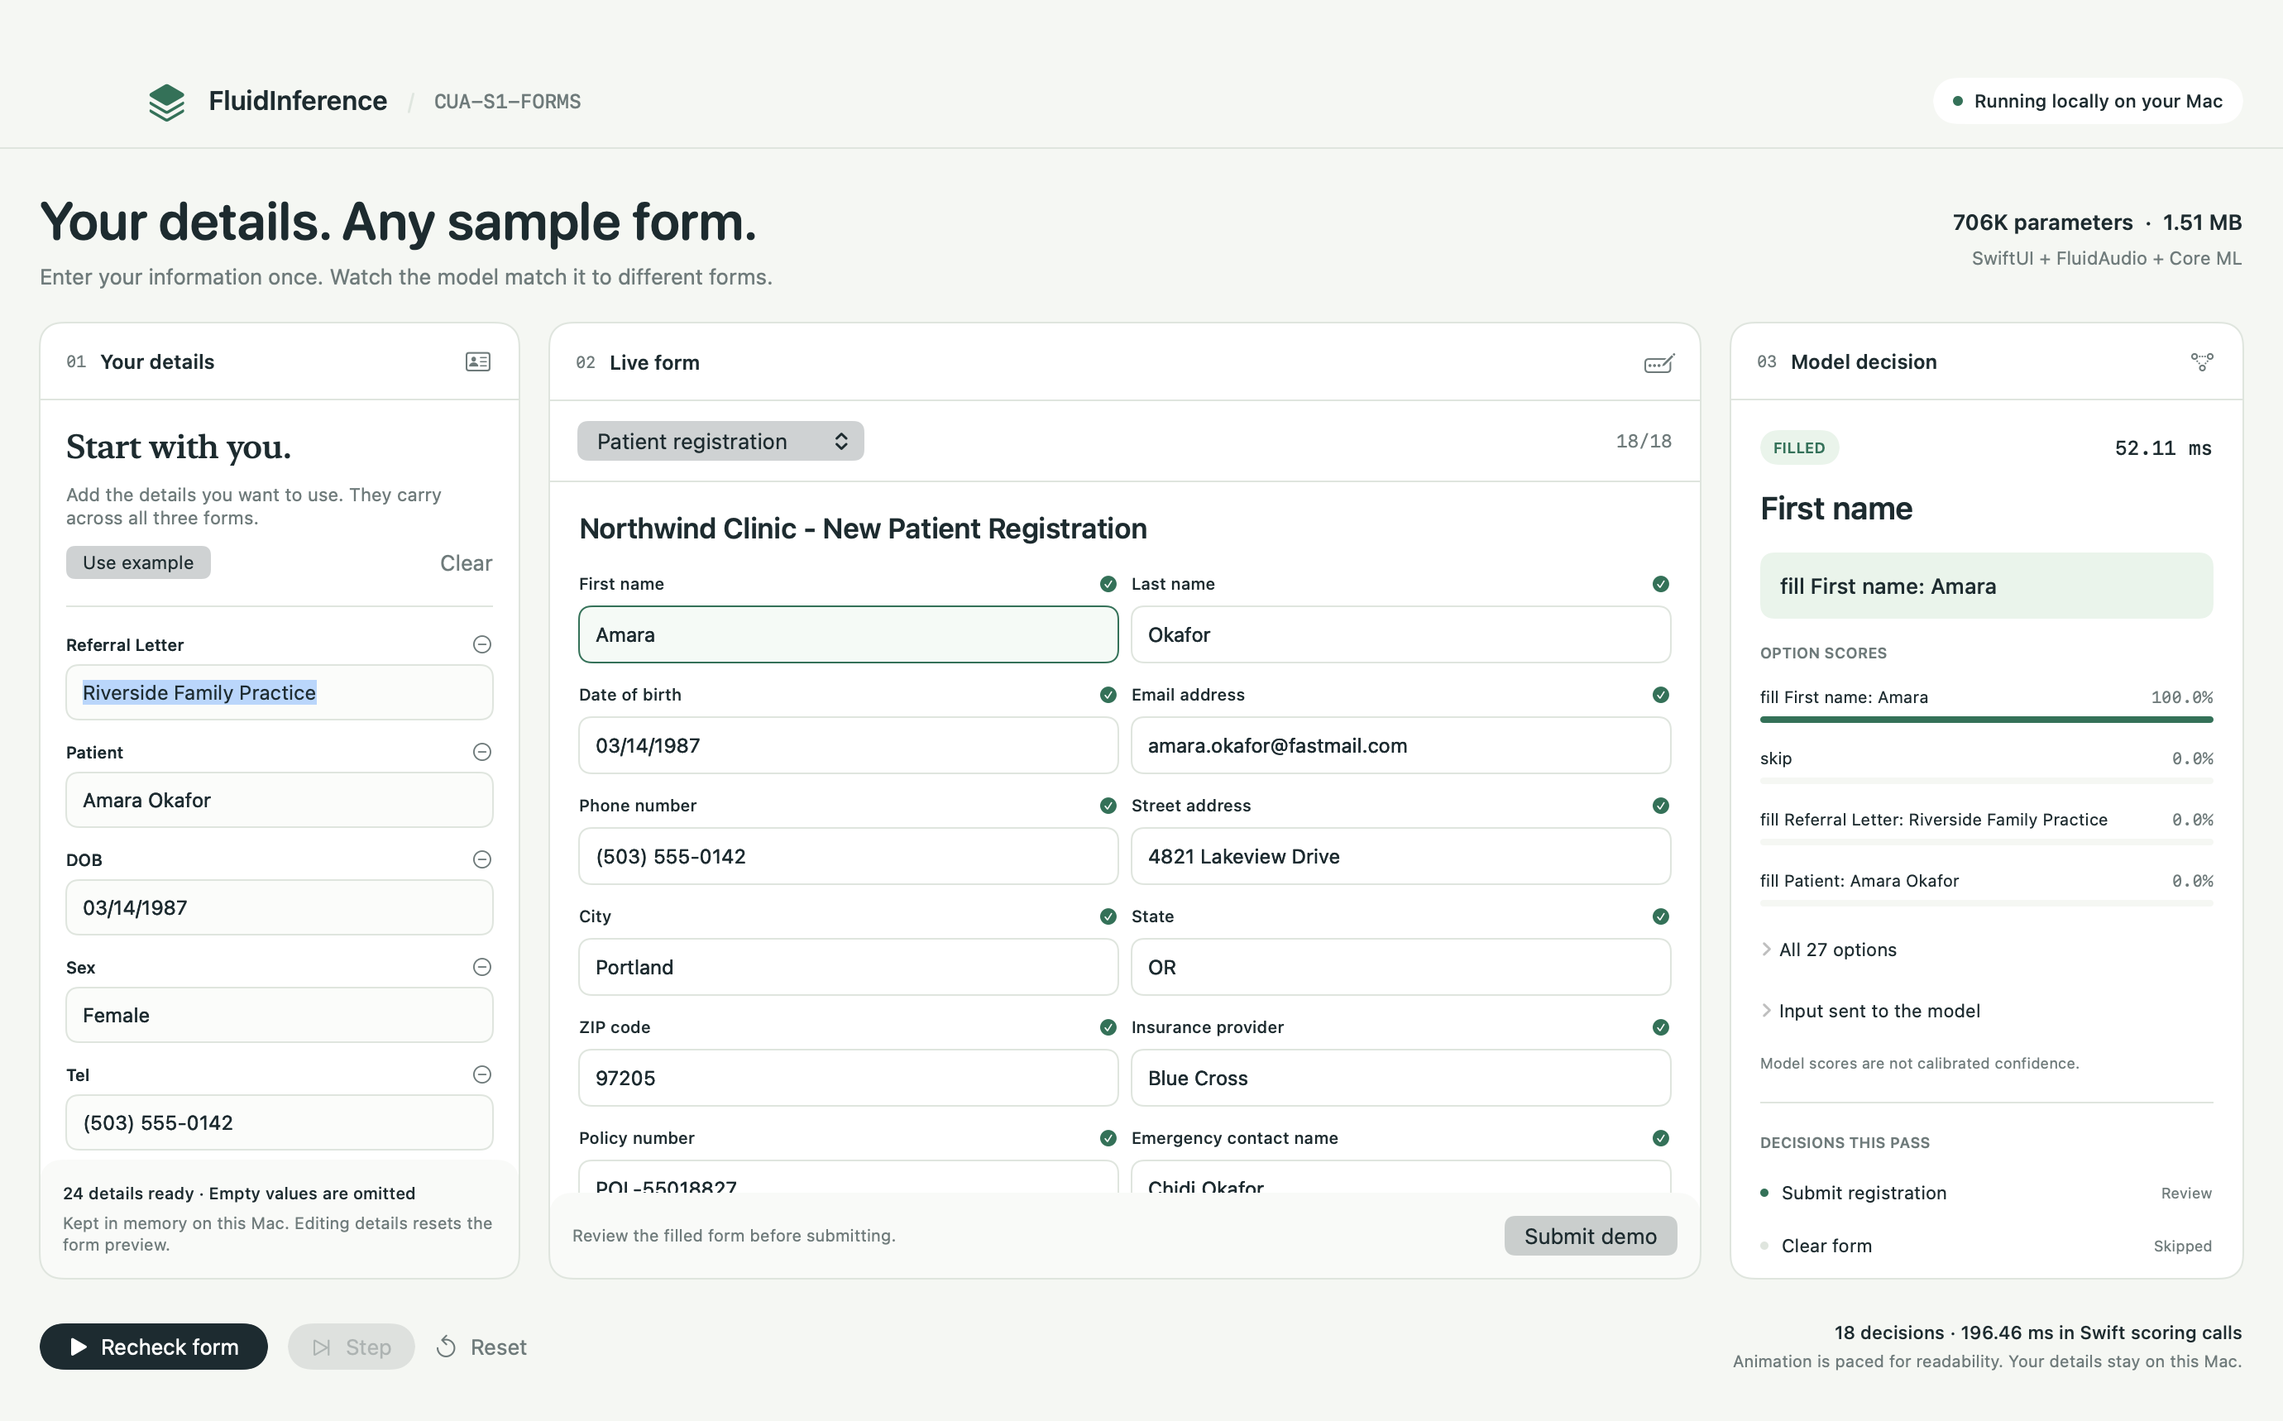
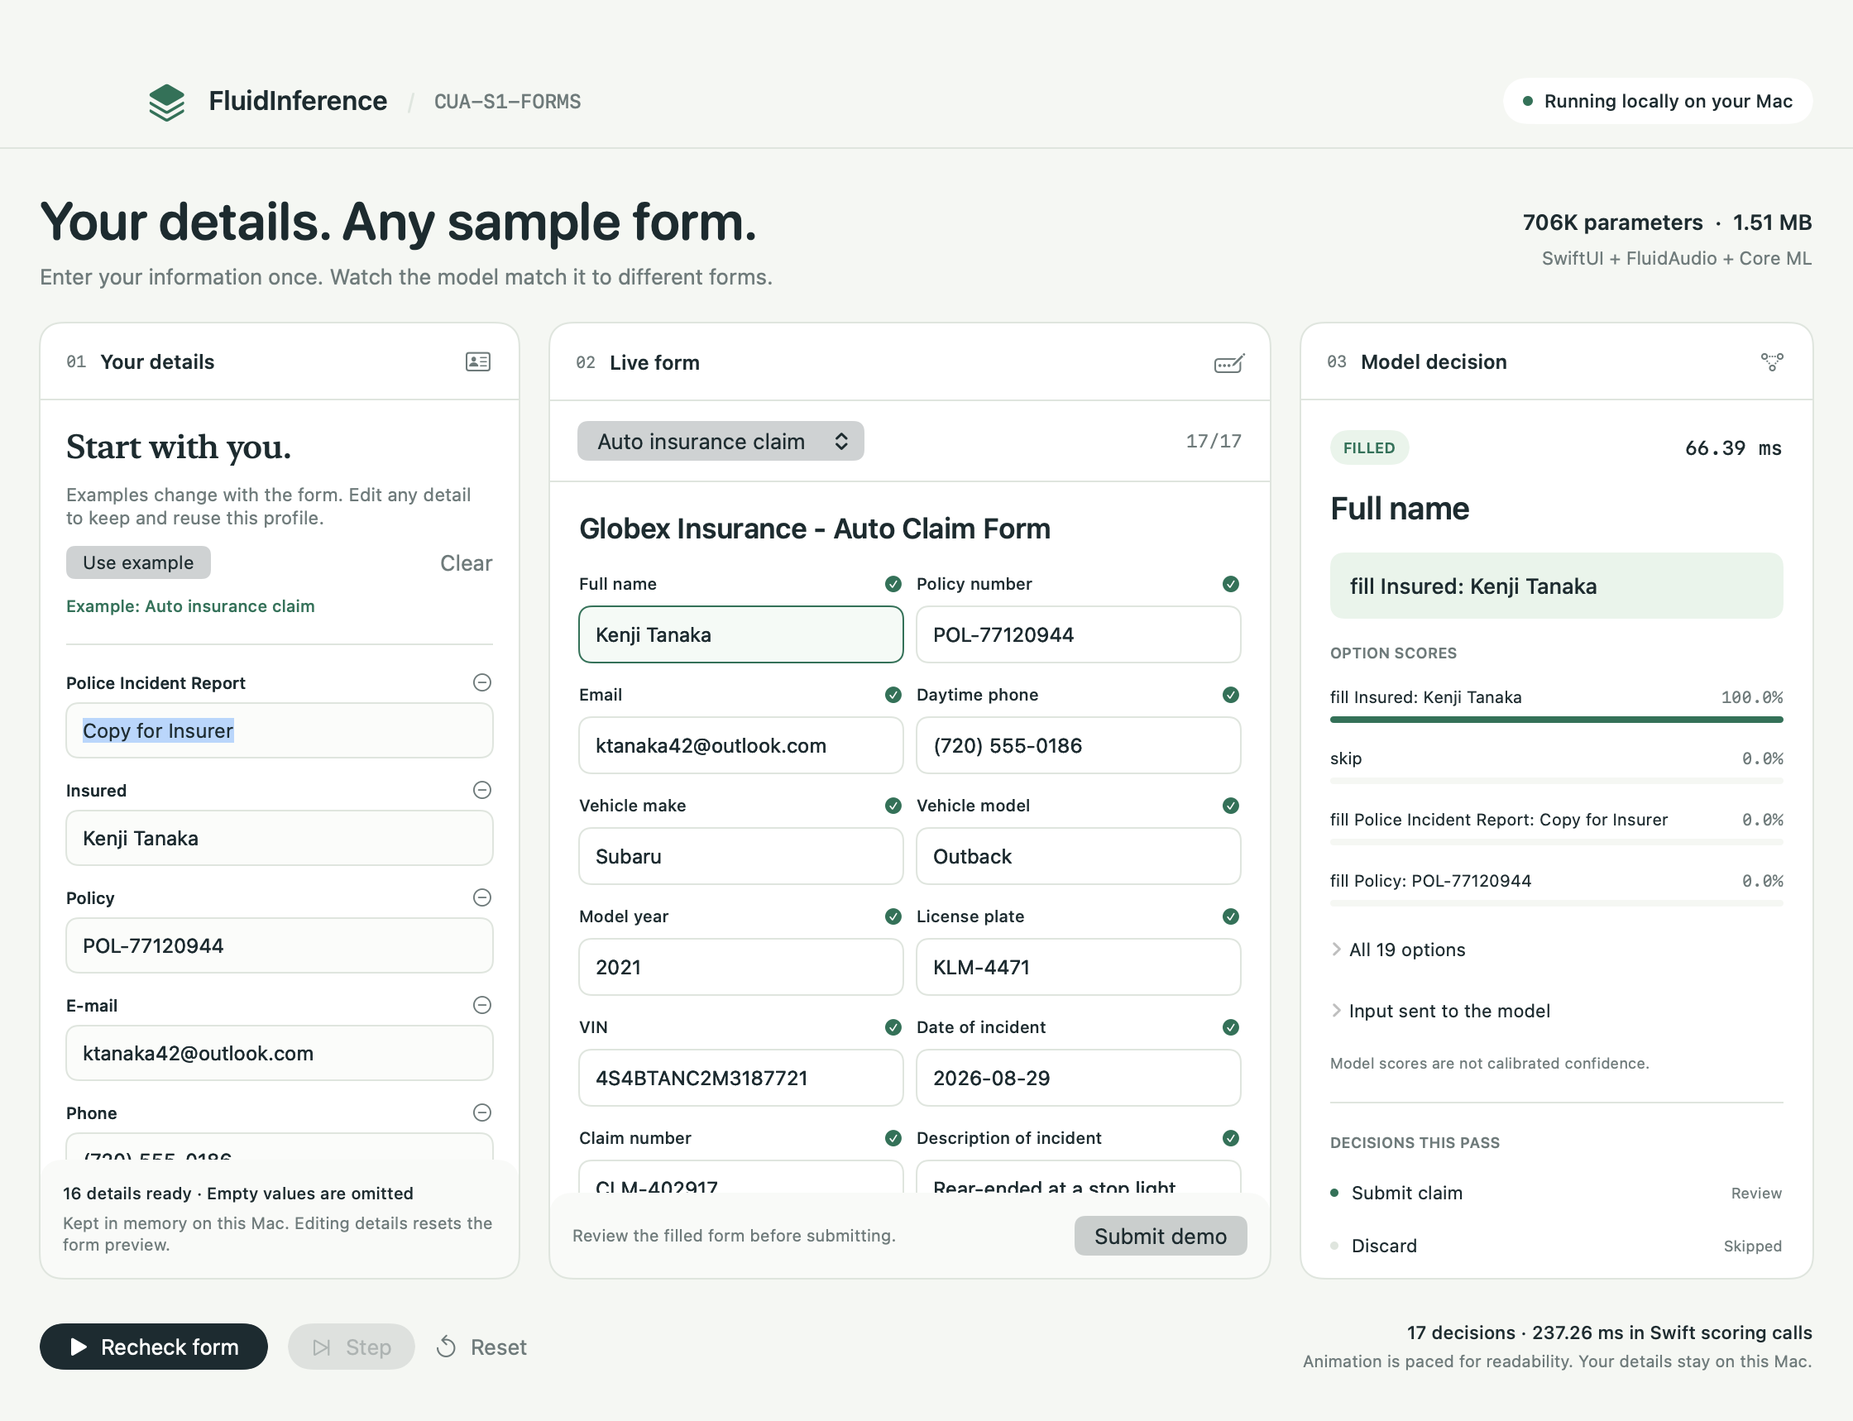
Match untouched example details to the selected Swift demo form

diff --git a/Examples/CuaS1FormsDemo/Tests/CuaDemoCoreTests/ExampleSelectionTests.swift b/Examples/CuaS1FormsDemo/Tests/CuaDemoCoreTests/ExampleSelectionTests.swift
@@ -1,0 +1,100 @@
+import Foundation
+import XCTest
+
+@testable import CuaDemoCore
+
+final class ExampleSelectionTests: XCTestCase {
+    @MainActor
+    func testUntouchedExamplesFollowAllFormsAndResetThePreview() async throws {
+        let session = DemoSession(scenarios: try DemoCatalog.load())
+        session.useExampleDetails()
+        for index in [1, 2, 0] {
+            let control = try XCTUnwrap(session.controls.first)
+            session.setValue("A field under review", for: control.id)
+            session.selectScenario(index)
+            XCTAssertTrue(session.isUsingExampleDetails)
+            XCTAssertEqual(try ProfileChoices.make(from: session.details), session.scenarios[index].options)
+            XCTAssertEqual(session.controls.map(\.id), session.scenarios[index].controls.map(\.id))
+            XCTAssertTrue(session.controls.allSatisfy { $0.value.isEmpty && !$0.isChecked })
+            XCTAssertEqual(session.nextIndex, 0)
+            XCTAssertTrue(session.decisions.isEmpty)
+        }
+    }
+
+    @MainActor
+    func testUnchangedEditorUpdatesKeepExamplesFollowingForms() async throws {
+        let session = DemoSession(scenarios: try DemoCatalog.load())
+        session.useExampleDetails()
+        let detail = try XCTUnwrap(session.details.first)
+        let control = try XCTUnwrap(session.controls.first)
+        session.setValue("A field under review", for: control.id)
+        session.updateDetail(detail.id, name: detail.name, value: detail.value)
+        session.removeDetail(UUID())
+        session.selectScenario(session.scenarioIndex)
+        XCTAssertEqual(session.controls.first?.value, "A field under review")
+        XCTAssertEqual(session.details.first?.id, detail.id)
+        XCTAssertTrue(session.isUsingExampleDetails)
+        session.selectScenario(2)
+        XCTAssertEqual(try ProfileChoices.make(from: session.details), session.scenarios[2].options)
+    }
+
+    @MainActor
+    func testEditingAnExamplePreservesTheEditedProfileAcrossForms() async throws {
+        let session = DemoSession(scenarios: try DemoCatalog.load())
+        session.useExampleDetails()
+        let firstName = try XCTUnwrap(session.details.first { $0.name == "First name" })
+        session.updateDetail(firstName.id, value: "Kenji")
+        XCTAssertFalse(session.isUsingExampleDetails)
+        let choices = try ProfileChoices.make(from: session.details)
+        let ids = session.details.map(\.id)
+        for index in [1, 2, 0] {
+            session.selectScenario(index)
+            XCTAssertEqual(try ProfileChoices.make(from: session.details), choices)
+            XCTAssertEqual(session.details.map(\.id), ids)
+        }
+        session.useExampleDetails()
+        session.selectScenario(1)
+        XCTAssertTrue(session.isUsingExampleDetails)
+        XCTAssertEqual(try ProfileChoices.make(from: session.details), session.scenarios[1].options)
+    }
+
+    @MainActor
+    func testRenamingAddingOrRemovingDetailsLeavesExampleMode() async throws {
+        let session = DemoSession(scenarios: try DemoCatalog.load())
+        for edit in 0..<3 {
+            session.useExampleDetails()
+            let detail = try XCTUnwrap(session.details.first)
+            switch edit {
+            case 0: session.updateDetail(detail.id, name: "Document title")
+            case 1: session.addDetail()
+            default: session.removeDetail(detail.id)
+            }
+            XCTAssertFalse(session.isUsingExampleDetails)
+            let ids = session.details.map(\.id)
+            let choices = try ProfileChoices.make(from: session.details)
+            session.selectScenario((session.scenarioIndex + 1) % session.scenarios.count)
+            XCTAssertEqual(session.details.map(\.id), ids)
+            XCTAssertEqual(try ProfileChoices.make(from: session.details), choices)
+        }
+    }
+
+    @MainActor
+    func testClearKeepsFormsBlankUntilAnExampleIsExplicitlyLoaded() async throws {
+        let session = DemoSession(scenarios: try DemoCatalog.load())
+        XCTAssertFalse(session.isUsingExampleDetails)
+        session.useExampleDetails()
+        session.clearDetails()
+        for index in [1, 2, 0] {
+            session.selectScenario(index)
+            XCTAssertFalse(session.isUsingExampleDetails)
+            XCTAssertTrue(session.details.allSatisfy { $0.value.isEmpty })
+        }
+        session.selectScenario(2)
+        session.useExampleDetails()
+        XCTAssertEqual(try ProfileChoices.make(from: session.details), session.scenarios[2].options)
+        session.reset()
+        XCTAssertTrue(session.isUsingExampleDetails)
+        session.selectScenario(1)
+        XCTAssertEqual(try ProfileChoices.make(from: session.details), session.scenarios[1].options)
+    }
+}

diff --git a/Examples/CuaS1FormsDemo/Sources/CuaDemoCore/DemoVerification.swift b/Examples/CuaS1FormsDemo/Sources/CuaDemoCore/DemoVerification.swift
@@ -14,9 +14,13 @@ public enum DemoVerification {
         await session.load(modelURL: modelURL)
         guard session.isReady else { throw DemoError(session.errorMessage ?? "Model failed to load.") }
         var checked = 0
+        let expectedFilledFields = [14, 10, 12]
+        session.useExampleDetails()
         for scenarioIndex in session.scenarios.indices {
             session.selectScenario(scenarioIndex)
-            session.useExampleDetails()
+            guard session.isUsingExampleDetails,
+                try ProfileChoices.make(from: session.details) == session.scenarios[scenarioIndex].options
+            else { throw DemoError("The public example did not follow the selected form.") }
             while !session.isComplete { try await session.scoreNext() }
             for decision in session.decisions {
                 guard decision.result.selectedIndex == labels[decision.id] else {
@@ -24,10 +28,16 @@ public enum DemoVerification {
                 }
                 checked += 1
             }
+            let filledFields = session.controls.filter { $0.role == "Edit" && !$0.value.isEmpty }.count
+            guard filledFields == expectedFilledFields[scenarioIndex] else {
+                throw DemoError("The example did not fill the expected fields for form \(scenarioIndex).")
+            }
             guard !session.isSubmitted else { throw DemoError("Scoring must never submit a form.") }
             session.submitLocally()
             guard session.isSubmitted else { throw DemoError("The explicit local submit action failed.") }
-            print("PASS \(session.scenario?.shortTitle ?? "form"): \(session.decisions.count) real decisions")
+            print(
+                "PASS \(session.scenario?.shortTitle ?? "form"): "
+                    + "\(session.decisions.count) real decisions, \(filledFields) text fields filled")
         }
         guard checked == 50 else { throw DemoError("The selected 50-control manifest changed.") }
         session.selectScenario(0)
@@ -54,10 +64,41 @@ public enum DemoVerification {
             session.controls.allSatisfy({ $0.value.isEmpty && !$0.isChecked })
         else { throw DemoError("Reset did not cancel pending scoring safely.") }
         print("PASS single-step and cancellation/reset behavior")
+        try verifyExampleEditing(session)
         try await verifyEnteredProfile(session)
         print(
             "Verified 50 original form decisions, filled-state recheck, and playback controls with the real Swift manager."
         )
+    }
+
+    @MainActor
+    private static func verifyExampleEditing(_ session: DemoSession) throws {
+        session.useExampleDetails()
+        guard let detail = session.details.first else { throw DemoError("Missing example details.") }
+        session.updateDetail(detail.id, name: detail.name, value: detail.value)
+        session.selectScenario(1)
+        guard session.isUsingExampleDetails,
+            try ProfileChoices.make(from: session.details) == session.scenarios[1].options
+        else { throw DemoError("An unchanged editor update stopped example switching.") }
+        guard let firstName = session.details.first(where: { $0.name == "First name" }) else {
+            throw DemoError("Missing example first name.")
+        }
+        session.updateDetail(firstName.id, value: "Kenji")
+        let editedChoices = try ProfileChoices.make(from: session.details)
+        session.selectScenario(2)
+        guard !session.isUsingExampleDetails,
+            try ProfileChoices.make(from: session.details) == editedChoices
+        else { throw DemoError("Switching forms overwrote an edited example.") }
+        session.useExampleDetails()
+        guard session.isUsingExampleDetails,
+            try ProfileChoices.make(from: session.details) == session.scenarios[2].options
+        else { throw DemoError("Use example did not restore the selected form's details.") }
+        session.clearDetails()
+        session.selectScenario(0)
+        guard !session.isUsingExampleDetails, session.details.allSatisfy({ $0.value.isEmpty }) else {
+            throw DemoError("Switching forms restored sample data after clearing the profile.")
+        }
+        print("PASS examples follow forms, edited profiles persist, and clear exits example mode")
     }
 
     @MainActor

diff --git a/Examples/CuaS1FormsDemo/Sources/CuaDemoCore/DemoSession.swift b/Examples/CuaS1FormsDemo/Sources/CuaDemoCore/DemoSession.swift
@@ -62,6 +62,8 @@ public final class DemoSession {
     public private(set) var controls: [DemoControl] = []
     /// User-entered source data, retained in memory when switching target forms.
     public private(set) var details = ProfileChoices.emptyDetails()
+    /// Whether untouched sample details should follow the selected form.
+    public private(set) var isUsingExampleDetails = false
     /// Predictions made during this pass, in form order.
     public private(set) var decisions: [DemoDecision] = []
     /// Control displayed in the decision inspector.
@@ -85,6 +87,11 @@ public final class DemoSession {
 
     /// Create an unloaded session.
     public init() {}
+
+    init(scenarios: [DemoScenario]) {
+        self.scenarios = scenarios
+        controls = scenarios.first?.controls ?? []
+    }
 
     /// The currently selected scenario.
     public var scenario: DemoScenario? {
@@ -123,6 +130,7 @@ public final class DemoSession {
         else { return }
         if let name { details[index].name = name }
         if let value { details[index].value = value }
+        isUsingExampleDetails = false
         reset()
     }
 
@@ -130,13 +138,15 @@ public final class DemoSession {
     public func addDetail() {
         guard !isRunning else { return }
         details.append(ProfileDetail(name: ""))
+        isUsingExampleDetails = false
         reset()
     }
 
     /// Remove a source value from subsequent model choices.
     public func removeDetail(_ id: UUID) {
-        guard !isRunning else { return }
+        guard !isRunning, details.contains(where: { $0.id == id }) else { return }
         details.removeAll { $0.id == id }
+        isUsingExampleDetails = false
         reset()
     }
 
@@ -144,14 +154,20 @@ public final class DemoSession {
     public func clearDetails() {
         guard !isRunning else { return }
         details = ProfileChoices.emptyDetails()
+        isUsingExampleDetails = false
         reset()
     }
 
-    /// Load the selected form's original public example into the editable source panel.
+    /// Load public sample details and follow the selected form until the user edits them.
     public func useExampleDetails() {
         guard !isRunning, let scenario else { return }
-        details = scenario.entities.map { ProfileDetail(name: $0.name, value: $0.value) }
+        copyExampleDetails(from: scenario)
         reset()
+    }
+
+    private func copyExampleDetails(from scenario: DemoScenario) {
+        details = scenario.entities.map { ProfileDetail(name: $0.name, value: $0.value) }
+        isUsingExampleDetails = true
     }
 
     /// Load the bundled source fixture and real Core ML package.
@@ -172,10 +188,11 @@ public final class DemoSession {
         }
     }
 
-    /// Switch forms and clear the previous pass.
+    /// Switch forms, refresh untouched examples, and preserve user-entered or edited details.
     public func selectScenario(_ index: Int) {
-        guard scenarios.indices.contains(index) else { return }
+        guard scenarios.indices.contains(index), index != scenarioIndex else { return }
         scenarioIndex = index
+        if isUsingExampleDetails { copyExampleDetails(from: scenarios[index]) }
         reset()
     }
 

diff --git a/Examples/CuaS1FormsDemo/Sources/CuaS1FormsDemo/ProfileEditorView.swift b/Examples/CuaS1FormsDemo/Sources/CuaS1FormsDemo/ProfileEditorView.swift
@@ -17,15 +17,30 @@ struct ProfileEditorView: View {
             .overlay(alignment: .bottom) { Rectangle().fill(Palette.line).frame(height: 1) }
             VStack(alignment: .leading, spacing: 10) {
                 Text("Start with you.").font(.system(size: 20, weight: .medium, design: .serif))
-                Text("Add the details you want to use. They carry across all three forms.")
-                    .font(.system(size: 11)).foregroundStyle(Palette.muted)
-                    .fixedSize(horizontal: false, vertical: true)
+                Text(
+                    session.isUsingExampleDetails
+                        ? "Examples change with the form. Edit any detail to keep and reuse this profile."
+                        : "Add the details you want to use. They carry across all three forms."
+                )
+                .font(.system(size: 11)).foregroundStyle(Palette.muted)
+                .fixedSize(horizontal: false, vertical: true)
                 HStack {
                     Button("Use example") { session.useExampleDetails() }.buttonStyle(.bordered)
+                        .help("Load sample details for \(session.scenario?.shortTitle ?? "the selected form")")
+                        .disabled(session.scenario == nil)
                     Spacer()
                     Button("Clear") { session.clearDetails() }.buttonStyle(.borderless)
                         .foregroundStyle(Palette.muted)
                 }.controlSize(.small).disabled(session.isRunning)
+                if let scenario = session.scenario {
+                    Text(
+                        session.isUsingExampleDetails
+                            ? "Example: \(scenario.shortTitle)"
+                            : "Available example: \(scenario.shortTitle)"
+                    )
+                    .font(.system(size: 10, weight: .medium)).foregroundStyle(Palette.green)
+                    .fixedSize(horizontal: false, vertical: true)
+                }
             }.padding(16)
             Divider().overlay(Palette.line).padding(.horizontal, 16)
             ScrollView {

diff --git a/Examples/CuaS1FormsDemo/Sources/CuaS1FormsDemo/DemoView.swift b/Examples/CuaS1FormsDemo/Sources/CuaS1FormsDemo/DemoView.swift
@@ -36,7 +36,15 @@ struct DemoView: View {
             await session.load(modelURL: DemoLauncher.argumentURL("--model"))
             if CommandLine.arguments.contains("--snapshot-filled"), session.isReady {
                 session.useExampleDetails()
-                do { while !session.isComplete { try await session.scoreNext() } } catch {
+                do {
+                    if let formID = DemoLauncher.argument("--snapshot-form") {
+                        guard let index = session.scenarios.firstIndex(where: { $0.id == formID }) else {
+                            throw DemoError("Unknown snapshot form: \(formID)")
+                        }
+                        session.selectScenario(index)
+                    }
+                    while !session.isComplete { try await session.scoreNext() }
+                } catch {
                     print("Snapshot run failed: \(error)")
                 }
                 session.selectedControlID = session.controls.first?.id

diff --git a/Examples/CuaS1FormsDemo/Sources/CuaS1FormsDemo/DemoApp.swift b/Examples/CuaS1FormsDemo/Sources/CuaS1FormsDemo/DemoApp.swift
@@ -20,9 +20,13 @@ enum DemoLauncher {
     }
 
     static func argumentURL(_ name: String) -> URL? {
+        argument(name).map { URL(fileURLWithPath: $0) }
+    }
+
+    static func argument(_ name: String) -> String? {
         let arguments = CommandLine.arguments
         guard let index = arguments.firstIndex(of: name), arguments.indices.contains(index + 1) else { return nil }
-        return URL(fileURLWithPath: arguments[index + 1])
+        return arguments[index + 1]
     }
 }
 
